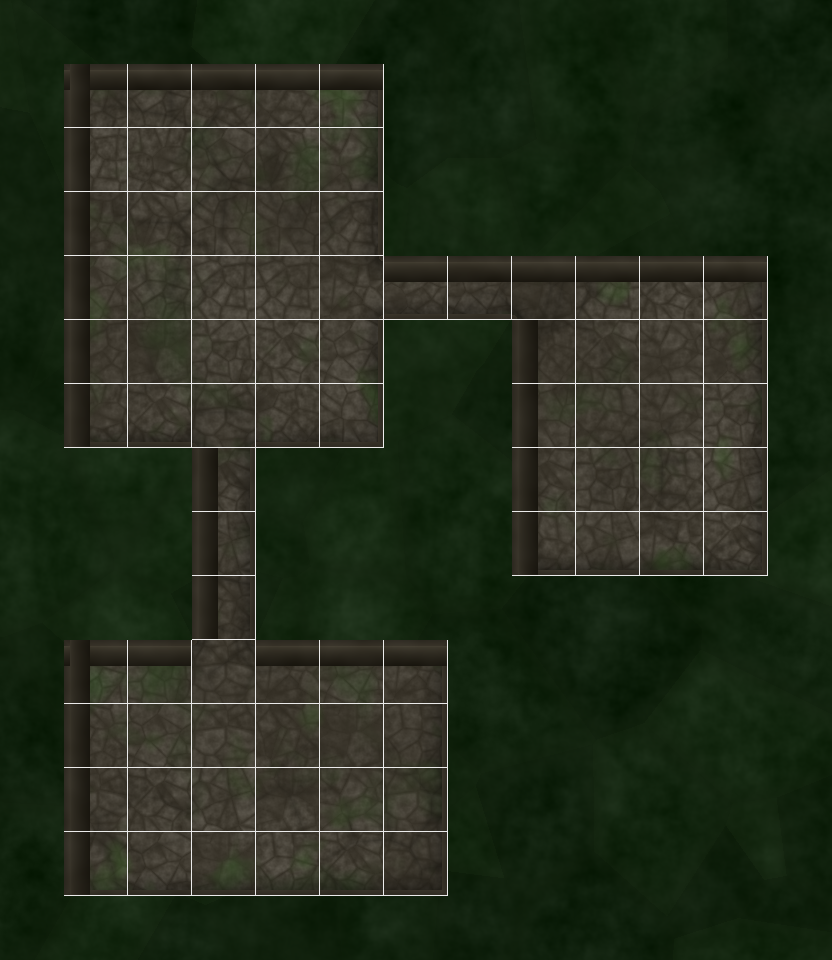
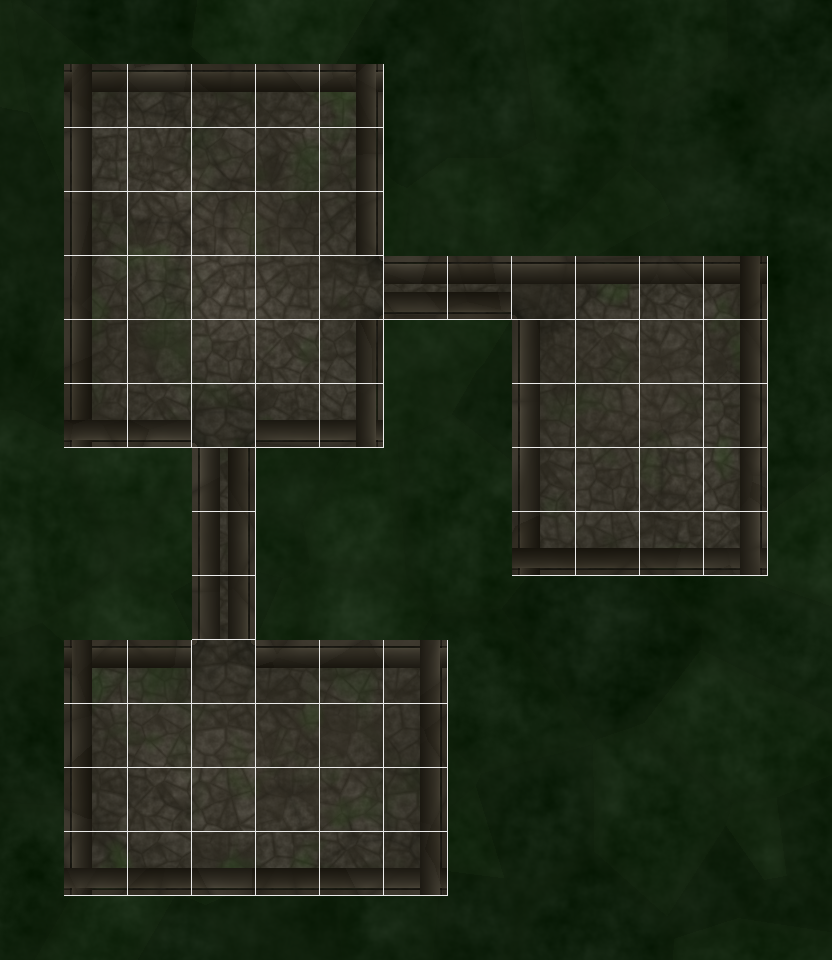
Center-radial lighting, 4-sided wall faces, stone-textured walls
- Replace directional NW shadow casting with center-radial lighting:
  rooms brighten at center, darken toward walls omnidirectionally.
- Wall faces now render on all 4 edges (not just N/W), since lighting
  is no longer directional.
- Wall top border uses flat stone texture (no brightness gradient)
  with Voronoi block pattern and mortar lines.
- Dark crease line separates wall top from inner face on all edges.
- Removes pipe-like appearance from previous gradient-based walls.

diff --git a/tools/texgen/preview.py b/tools/texgen/preview.py
@@ -282,43 +282,31 @@ def render_ao(canvas_arr, floor_mask, inner_dist):
         canvas_arr[:, :, c] *= (1 - ao)
 
 
-def render_shadows(canvas_arr, floor_mask, theme):
-    """Vectorized shadow casting from floor-void edges."""
-    shadow = np.zeros((PX_H, PX_W), dtype=np.float32)
-    shadow_len = WALL_FACE_HEIGHT + 8
+def render_radial_lighting(canvas_arr, floor_mask, inner_dist, theme):
+    """
+    Center-radial lighting: each floor area is brightest at its center
+    and darkens toward the walls. Uses the distance-from-wall field
+    (inner_dist) inverted — pixels far from walls are bright (center),
+    pixels near walls are darker.
 
-    for r in range(ROWS):
-        for c in range(COLS):
-            if LAYOUT[r, c] != 1:
-                continue
-            x0, y0 = c * TILE, r * TILE
+    This replaces directional shadow casting with omnidirectional vignette.
+    """
+    # inner_dist = distance from nearest wall for each floor pixel
+    # Normalize per-room by using a moderate radius
+    max_radius = TILE * 2.5  # full brightness ~2.5 tiles from wall
+    # Brightness: 1.0 at center, falls off toward walls
+    brightness = np.clip(inner_dist / max_radius, 0, 1) ** 0.6
+    brightness[~floor_mask] = 0
 
-            # North wall shadow (void above -> shadow south)
-            if r == 0 or LAYOUT[r-1, c] != 1:
-                dy_range = np.arange(shadow_len, dtype=np.float32)
-                t = (1.0 - dy_range / shadow_len) ** 1.5 * 0.45
-                for di, dy in enumerate(dy_range):
-                    py = int(y0 + dy)
-                    if py >= PX_H: break
-                    shadow[py, x0:x0+TILE] = np.maximum(shadow[py, x0:x0+TILE], t[di])
-
-            # West wall shadow (void left -> shadow east)
-            if c == 0 or LAYOUT[r, c-1] != 1:
-                dx_range = np.arange(shadow_len, dtype=np.float32)
-                t = (1.0 - dx_range / shadow_len) ** 1.5 * 0.35
-                for di, dx in enumerate(dx_range):
-                    px = int(x0 + dx)
-                    if px >= PX_W: break
-                    shadow[y0:y0+TILE, px] = np.maximum(shadow[y0:y0+TILE, px], t[di])
-
-    shadow_img = Image.fromarray((shadow * 255).astype(np.uint8), 'L')
-    shadow_img = shadow_img.filter(ImageFilter.GaussianBlur(radius=TILE // 8))
-    shadow = np.array(shadow_img, dtype=np.float32) / 255.0
-    shadow[~floor_mask] = 0
+    # Invert to get shadow intensity (dark near walls, bright at center)
+    shadow = (1.0 - brightness) * 0.35  # max 35% darkening at walls
 
     shadow_col = np.array(theme['shadow_color'], dtype=np.float64)
     for c in range(3):
-        canvas_arr[:, :, c] = canvas_arr[:, :, c] * (1 - shadow * 0.65) + shadow_col[c] * shadow * 0.65
+        canvas_arr[:, :, c] = np.where(
+            floor_mask,
+            canvas_arr[:, :, c] * (1 - shadow) + shadow_col[c] * shadow,
+            canvas_arr[:, :, c])
 
 
 def render_exterior(canvas_arr, floor_mask, theme):
@@ -375,102 +363,119 @@ def render_walls(canvas_arr, floor_mask, theme):
     face_lit = np.array(theme['wall_face_lit'], dtype=np.float64)
     face_dark = np.array(theme['wall_face_dark'], dtype=np.float64)
 
+    # --- Voronoi stone texture for wall faces ---
+    # Generate a separate stone pattern for the walls so faces have block detail
+    print("    Wall stone texture...", end='', flush=True)
+    wall_cells, wall_edges = continuous_voronoi(PX_H, PX_W, density=1.2, seed=700)
+    wall_stone_var = (wall_cells - 0.5) * 18  # per-block color variation
+    wall_mortar = np.clip(1.0 - wall_edges * 4.5, 0, 1) ** 1.5  # mortar lines
+    print(" done")
+
     # --- Wall top border (all edges) ---
+    # Flat stone surface, no gradient. Textured with noise + stone blocks.
     print("    Wall borders...", end='', flush=True)
     border_mask = floor_mask & (inner_dist <= WALL_THICKNESS)
-    t = np.clip(inner_dist / WALL_THICKNESS, 0, 1)
-    noise_var = (wall_noise - 0.5) * 12
+    noise_var = (wall_noise - 0.5) * 10
     for c in range(3):
+        # Flat color with noise texture, no brightness gradient
+        base_val = wall_top[c] + noise_var + wall_stone_var
+        # Darken mortar lines
+        base_val = base_val * (1 - wall_mortar * 0.4) + (wall_top[c] * 0.5) * wall_mortar * 0.4
         canvas_arr[:, :, c] = np.where(
-            border_mask,
-            np.clip(wall_top[c] * (0.8 + 0.2 * t) + noise_var, 0, 255),
-            canvas_arr[:, :, c])
+            border_mask, np.clip(base_val, 0, 255), canvas_arr[:, :, c])
     print(" done")
 
-    # --- North inner face (far wall, looking down) ---
-    # These are floor pixels just below a north void edge.
-    # Painted inside the floor, below the wall-top border.
-    print("    North faces...", end='', flush=True)
+    # --- Dark edge line between wall top and inner face (all 4 edges) ---
+    print("    Edge creases...", end='', flush=True)
     north_edge = np.zeros((PX_H, PX_W), dtype=bool)
     north_edge[1:, :] = floor_mask[1:, :] & ~floor_mask[:-1, :]
-
-    for dy in range(WALL_FACE_HEIGHT):
-        target = np.zeros((PX_H, PX_W), dtype=bool)
-        # Shift north_edge down by (WALL_THICKNESS + dy)
-        offset = WALL_THICKNESS + dy
-        if offset < PX_H:
-            target[offset:, :] = north_edge[:-offset, :]
-        paint_mask = target & floor_mask
-        # Gradient: top of face (near wall border) is lit, bottom is dark
-        t = (dy / WALL_FACE_HEIGHT) ** 0.7
-        noise_val = np.where(paint_mask, (wall_noise - 0.5) * 10, 0)
-        for c in range(3):
-            color = face_lit[c] * (1 - t) + face_dark[c] * t
-            canvas_arr[:, :, c] = np.where(
-                paint_mask,
-                np.clip(color + noise_val, 0, 255),
-                canvas_arr[:, :, c])
-    print(" done")
-
-    # --- West inner face (far wall, looking down) ---
-    print("    West faces...", end='', flush=True)
     west_edge = np.zeros((PX_H, PX_W), dtype=bool)
     west_edge[:, 1:] = floor_mask[:, 1:] & ~floor_mask[:, :-1]
+    south_edge_c = np.zeros((PX_H, PX_W), dtype=bool)
+    south_edge_c[:-1, :] = floor_mask[:-1, :] & ~floor_mask[1:, :]
+    east_edge_c = np.zeros((PX_H, PX_W), dtype=bool)
+    east_edge_c[:, :-1] = floor_mask[:, :-1] & ~floor_mask[:, 1:]
 
-    for dx in range(WALL_FACE_HEIGHT):
-        target = np.zeros((PX_H, PX_W), dtype=bool)
-        offset = WALL_THICKNESS + dx
-        if offset < PX_W:
-            target[:, offset:] = west_edge[:, :-offset]
-        paint_mask = target & floor_mask
-        t = (dx / WALL_FACE_HEIGHT) ** 0.7
-        noise_val = np.where(paint_mask, (wall_noise - 0.5) * 8, 0)
+    crease_color = face_dark * 0.7
+    for d in range(2):
+        a = 0.6 * (1 - d * 0.4)
+        offset = WALL_THICKNESS + d
+        # North crease (shift down)
+        crease = np.zeros((PX_H, PX_W), dtype=bool)
+        if offset < PX_H:
+            crease[offset:, :] = north_edge[:-offset, :]
+        crease &= floor_mask
         for c in range(3):
-            # West face slightly dimmer (less direct light)
-            color = (face_lit[c] * 0.85) * (1 - t) + face_dark[c] * t
-            canvas_arr[:, :, c] = np.where(
-                paint_mask,
-                np.clip(color + noise_val, 0, 255),
+            canvas_arr[:, :, c] = np.where(crease,
+                np.clip(canvas_arr[:, :, c] * (1 - a) + crease_color[c] * a, 0, 255),
+                canvas_arr[:, :, c])
+        # West crease (shift right)
+        crease = np.zeros((PX_H, PX_W), dtype=bool)
+        if offset < PX_W:
+            crease[:, offset:] = west_edge[:, :-offset]
+        crease &= floor_mask
+        for c in range(3):
+            canvas_arr[:, :, c] = np.where(crease,
+                np.clip(canvas_arr[:, :, c] * (1 - a) + crease_color[c] * a, 0, 255),
+                canvas_arr[:, :, c])
+        # South crease (shift up)
+        crease = np.zeros((PX_H, PX_W), dtype=bool)
+        if offset < PX_H:
+            crease[:-offset, :] = south_edge_c[offset:, :]
+        crease &= floor_mask
+        for c in range(3):
+            canvas_arr[:, :, c] = np.where(crease,
+                np.clip(canvas_arr[:, :, c] * (1 - a) + crease_color[c] * a, 0, 255),
+                canvas_arr[:, :, c])
+        # East crease (shift left)
+        crease = np.zeros((PX_H, PX_W), dtype=bool)
+        if offset < PX_W:
+            crease[:, :-offset] = east_edge_c[:, offset:]
+        crease &= floor_mask
+        for c in range(3):
+            canvas_arr[:, :, c] = np.where(crease,
+                np.clip(canvas_arr[:, :, c] * (1 - a) + crease_color[c] * a, 0, 255),
                 canvas_arr[:, :, c])
     print(" done")
 
-    # --- SE highlight on near walls (south/east edges catch light) ---
-    print("    SE highlights...", end='', flush=True)
-    highlight = np.clip(np.array(wall_top) * 1.3, 0, 255)
-    # South edges of floor (void below)
+    # --- All four inner faces (uniform lighting, radial handles depth) ---
+    print("    Inner faces...", end='', flush=True)
+    # South edge (void below) and East edge (void right) also get faces now
     south_edge = np.zeros((PX_H, PX_W), dtype=bool)
     south_edge[:-1, :] = floor_mask[:-1, :] & ~floor_mask[1:, :]
-    # East edges of floor (void right)
     east_edge = np.zeros((PX_H, PX_W), dtype=bool)
     east_edge[:, :-1] = floor_mask[:, :-1] & ~floor_mask[:, 1:]
 
-    for d in range(2):
-        a = 0.3 * (1 - d / 2)
-        # South highlight: paint d pixels above south edge
-        if d == 0:
-            s_mask = south_edge & floor_mask
-        else:
-            s_mask = np.zeros_like(south_edge)
-            s_mask[:-1, :] = south_edge[1:, :]
-            s_mask &= floor_mask
-        for c in range(3):
-            canvas_arr[:, :, c] = np.where(
-                s_mask,
-                np.clip(canvas_arr[:, :, c] * (1 - a) + highlight[c] * a, 0, 255),
-                canvas_arr[:, :, c])
+    edges = [
+        ('n', north_edge, 'y', 1),   # shift down into floor
+        ('w', west_edge,  'x', 1),   # shift right into floor
+        ('s', south_edge, 'y', -1),  # shift up into floor
+        ('e', east_edge,  'x', -1),  # shift left into floor
+    ]
 
-        # East highlight
-        if d == 0:
-            e_mask = east_edge & floor_mask
-        else:
-            e_mask = np.zeros_like(east_edge)
-            e_mask[:, :-1] = east_edge[:, 1:]
-            e_mask &= floor_mask
-        for c in range(3):
-            canvas_arr[:, :, c] = np.where(
-                e_mask,
-                np.clip(canvas_arr[:, :, c] * (1 - a) + highlight[c] * a, 0, 255),
-                canvas_arr[:, :, c])
+    for name, edge, axis, direction in edges:
+        for d in range(WALL_FACE_HEIGHT):
+            target = np.zeros((PX_H, PX_W), dtype=bool)
+            offset = WALL_THICKNESS + 2 + d
+            if axis == 'y':
+                if direction > 0 and offset < PX_H:
+                    target[offset:, :] = edge[:-offset, :]
+                elif direction < 0 and offset < PX_H:
+                    target[:-offset, :] = edge[offset:, :]
+            else:
+                if direction > 0 and offset < PX_W:
+                    target[:, offset:] = edge[:, :-offset]
+                elif direction < 0 and offset < PX_W:
+                    target[:, :-offset] = edge[:, offset:]
+            paint_mask = target & floor_mask
+            t = (d / WALL_FACE_HEIGHT) ** 0.7
+            base = face_lit * (1 - t) + face_dark * t
+            for c in range(3):
+                color = base[c] + np.where(paint_mask, wall_stone_var * (1 - t * 0.5), 0)
+                color = color * (1 - wall_mortar * 0.3 * (1 - t)) + face_dark[c] * wall_mortar * 0.3 * (1 - t)
+                color += np.where(paint_mask, (wall_noise - 0.5) * 8 * (1 - t), 0)
+                canvas_arr[:, :, c] = np.where(
+                    paint_mask, np.clip(color, 0, 255), canvas_arr[:, :, c])
     print(" done")
 
 
@@ -515,7 +520,7 @@ def render_preview(theme_name, pack_dir, output_path):
     print(" done")
 
     render_ao(canvas_arr, floor_mask, inner_dist)
-    render_shadows(canvas_arr, floor_mask, theme)
+    render_radial_lighting(canvas_arr, floor_mask, inner_dist, theme)
     render_walls(canvas_arr, floor_mask, theme)
 
     canvas = Image.fromarray(np.clip(canvas_arr, 0, 255).astype(np.uint8), 'RGBA')
